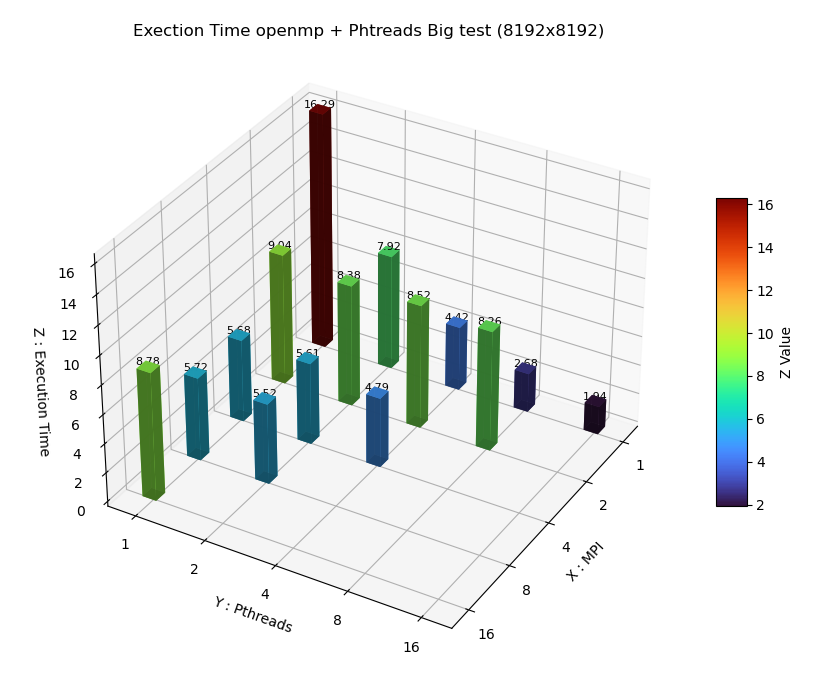
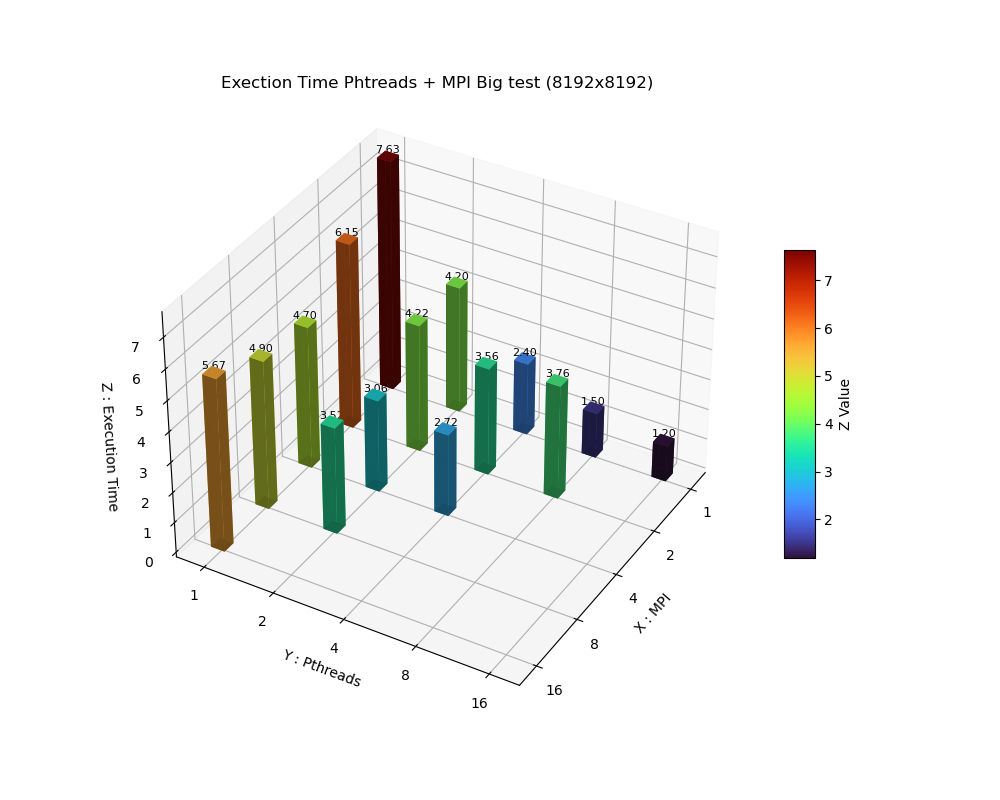
fixed readme

diff --git a/ms_mpi.c b/ms_mpi.c
@@ -307,9 +307,9 @@ int main(int argc, char *argv[]) {
                MPI_COMM_WORLD);
 
         // Write the final image on rank 0
-        // if (rank == 0) {
-        //     write_ppm(final_image, argv[2]);
-        // }
+        if (rank == 0) {
+            write_ppm(final_image, argv[2]);
+        }
     }
 
     // // Free resources

diff --git a/README.md b/README.md
@@ -11,7 +11,9 @@ Programul construieste imagini care constituie conturul reliefului pentru diferi
 
 <img src="./images/test_image.jpg" width="400"/> <img src="./images/test_208.jpg" width="400"/>
 <img src="./images/test_136.jpg" width="400"/> <img src="./images/test_61.jpg" width="400"/>  
-## Week 1
+
+<details>
+<summary> Week 1</summary>
 
 - Creare repo github si README
 - Implementare cod serial:
@@ -32,7 +34,6 @@ Specs:
     - L2: 4 MiB (8 instances)
     - L3: 16 MiB (1 instance)
 - RAM: 16 GB
-
 
 ### Implementare secventiala
 
@@ -57,8 +58,10 @@ Profiling folosind Vtune:
 Variatie timp secvential dupa dimensiunea inputului:
 
 ![Alt big profiling](./images/seq/seq_execution_time.png)
+</details>
 
-## Week 2
+<details>
+<summary> Week 2 </summary>
 
 ### Implementare pthreads
 
@@ -120,8 +123,10 @@ Profiling:
         ![Alt big profiling](./images/pthreads/mare_pthreads_16_2.png)
     
     Se poate vedea ca pentru 16 threaduri sunt folosite cea mai mult din timp 16 threaduri.
+</details>
 
-## Week 3
+<details>
+<summary> Week 3 </summary>
 
 ### Implementare openmp
 
@@ -174,8 +179,10 @@ Profiling:
         ![Alt big profiling](./images/openmp/mare_openmp_16_1.png)
 
         ![Alt big profiling](./images/openmp/mare_openmp_16_2.png)
+</details>
 
-## Week 4
+<details>
+<summary> Week 4 </summary>
 
 ### Implementare mpi
 
@@ -247,7 +254,10 @@ Atat pentru testul mare, cat si cel mediu se observa aceleasi tendinte in modifi
 
 images/openmp_mpi/Execution_time_openmp_MPI_mic.gif
 
-## Week 5
+</details>
+
+<details>
+<summary> Week 5 </summary>
 
 ### Implementare openmp + mpi
 
@@ -320,7 +330,10 @@ Pentru testul mare, exista o imbunatarie a timpilor, dar nu asa de proeminenta c
 
 Din punct de vedere al profiling-ului, nu exista diferente majore intre observatiile de la testul mediu si rezultatele de la cel mare.
 
-## Week 6
+</details>
+
+<details>
+<summary> Week 6 </summary>
 
 ### Implementare pthreads + mpi
 
@@ -392,3 +405,5 @@ In testul mare se poate vedea o diferenta semnificativa a timpului de executie p
 ![Alt big profiling](./images/pthreads_mpi/mare_8_2_1.png)
 
 La fel ca la algortmul anterior, deja nu se mai observa diferente ale top-down tree-ului intre testul mediu si testul mare.
+
+</details>
